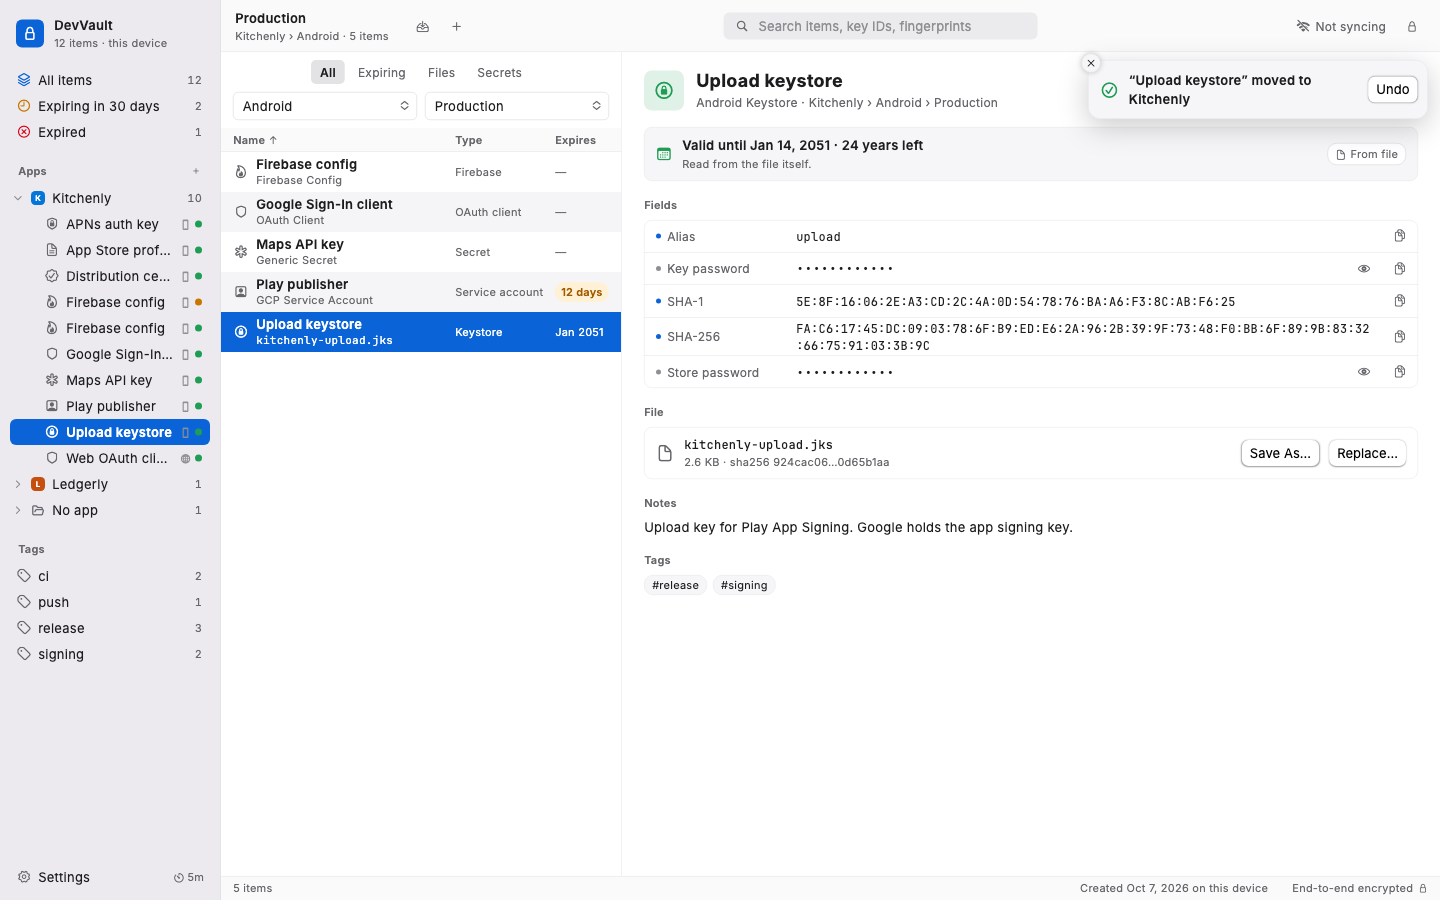
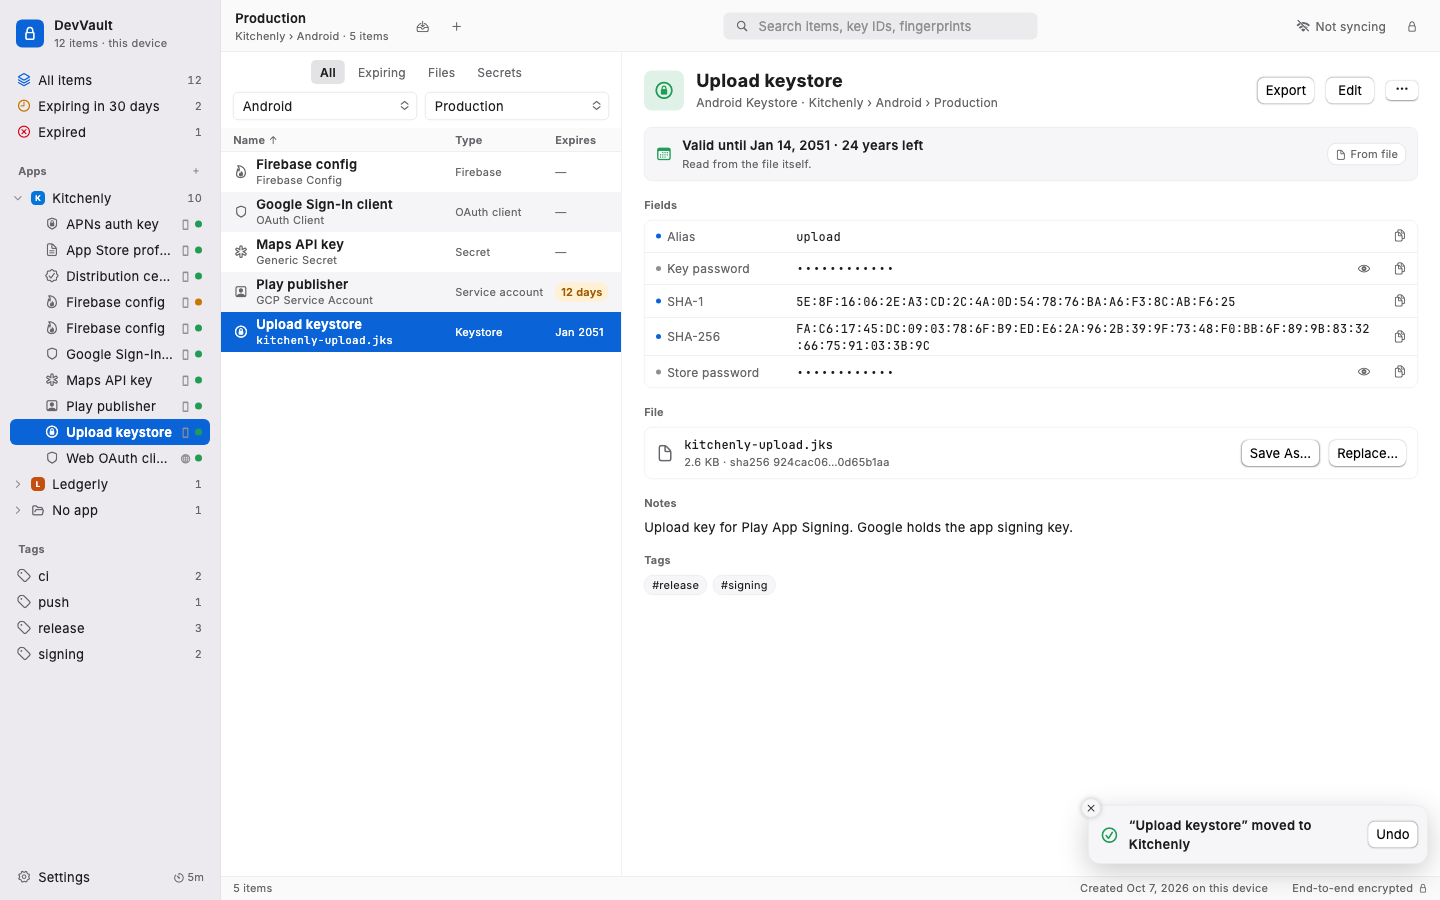
Desktop UI · Toasts at the bottom right, clear of the inspector
WALK-05: the macOS banner sat at the top right under the toolbar, over
the inspector header's Export / Edit / ⋯ after every import. It now sits
at the bottom right, 12 pt above the status bar and from the right edge
(DesktopMetrics.toastInset), and slides in from the right and below. The
Linux snackbar sits the same 12 pt above the status bar; Fluent's
InfoBar already ends at its top edge. The walkthrough now expects Edit
to be clickable right after each import.

Changed region(s): [[0.75, 0.9022, 1.0, 0.9956], [0.75, 0.0622, 1.0, 0.1556]]

diff --git a/test/desktop_toast_test.dart b/test/desktop_toast_test.dart
@@ -1,5 +1,7 @@
 import 'package:devvault/shared/desktop_ui.dart';
+import 'package:fluent_ui/fluent_ui.dart' as fl show InfoBar;
 import 'package:flutter/gestures.dart';
+import 'package:flutter/material.dart' show Material;
 import 'package:flutter_test/flutter_test.dart';
 
 import 'pump_desktop.dart';
@@ -123,5 +125,77 @@ void main() {
     await tester.tap(find.byIcon(DesktopSymbol.close.of(DesktopKit.macos)));
     await tester.pumpAndSettle();
     expect(find.textContaining('moved to Kitchenly'), findsNothing);
+  });
+
+  group('position (WALK-05)', () {
+    const window = Size(1280, 800);
+
+    /// The window's bottom edge less the status bar.
+    const statusBarTop = 800 - DesktopMetrics.statusBarHeight;
+
+    /// Shows a toast in a [window]-sized window and returns its rect.
+    Future<Rect> shown(WidgetTester tester, DesktopKit kit) async {
+      tester.view
+        ..physicalSize = window
+        ..devicePixelRatio = 1;
+      addTearDown(tester.view.reset);
+      await pumpDesktop(tester, kit, trigger(action: () {}));
+      await tester.tap(find.text('Show'));
+      await settle(tester);
+      final toast = kit == DesktopKit.fluent
+          ? find.byType(fl.InfoBar)
+          : find.byWidgetPredicate((w) => w.runtimeType.toString() == '_Toast');
+      return tester.getRect(toast);
+    }
+
+    Future<void> closeAll(WidgetTester tester) async {
+      await tester.pump(const Duration(seconds: 5));
+      await settle(tester);
+    }
+
+    testWidgets('macos: the banner sits at the bottom right, above the '
+        'status bar, clear of the toolbar and the inspector header', (
+      tester,
+    ) async {
+      final rect = await shown(tester, DesktopKit.macos);
+      expect(rect.right, window.width - DesktopMetrics.toastInset);
+      expect(rect.bottom, statusBarTop - DesktopMetrics.toastInset);
+      // The toolbar and the inspector's header row (title, Export, Edit,
+      // ⋯) under it.
+      const header = Rect.fromLTWH(
+        0,
+        0,
+        1280,
+        DesktopMetrics.toolbarHeight + 120,
+      );
+      expect(rect.overlaps(header), isFalse, reason: '$rect');
+      await closeAll(tester);
+    });
+
+    testWidgets('yaru: the snackbar sits at the bottom centre, above the '
+        'status bar', (tester) async {
+      final rect = await shown(tester, DesktopKit.yaru);
+      expect(rect.bottom, statusBarTop - DesktopMetrics.toastInset);
+      final card = tester.getRect(
+        find
+            .ancestor(
+              of: find.textContaining('moved to Kitchenly'),
+              matching: find.byType(Material),
+            )
+            .first,
+      );
+      expect(card.center.dx, closeTo(window.width / 2, 0.5));
+      expect(card.bottom, lessThanOrEqualTo(statusBarTop));
+      await closeAll(tester);
+    });
+
+    testWidgets("fluent: the InfoBar doesn't cover the status bar", (
+      tester,
+    ) async {
+      final rect = await shown(tester, DesktopKit.fluent);
+      expect(rect.bottom, lessThanOrEqualTo(statusBarTop));
+      expect(rect.center.dx, closeTo(window.width / 2, 0.5));
+      await closeAll(tester);
+    });
   });
 }

diff --git a/lib/shared/desktop/desktop_toast.dart b/lib/shared/desktop/desktop_toast.dart
@@ -14,12 +14,15 @@ enum DesktopToastKind { info, success, danger }
 /// Shows a short, passing message ("“Upload keystore” moved to Kitchenly")
 /// the way the OS does, with an optional [actionLabel] such as Undo:
 ///
-/// - macOS: a banner like Notification Center's, at the top right of the
-///   window under the toolbar. It closes after [duration] (zero keeps it),
-///   or with the round × over its corner, which shows on hover; hovering
-///   keeps it open.
-/// - Windows: Fluent's `InfoBar`, at the bottom of the window.
-/// - Linux: a Yaru snackbar, at the bottom of the window.
+/// - macOS: a banner like Notification Center's, at the bottom right of
+///   the window just above the status bar, clear of the toolbar and the
+///   inspector's header buttons. It closes after [duration] (zero keeps
+///   it), or with the round × over its corner, which shows on hover;
+///   hovering keeps it open.
+/// - Windows: Fluent's `InfoBar`, at the bottom centre of the window, where
+///   `displayInfoBar` puts it. Its 24 pt margin, the status bar's height,
+///   ends it at the status bar's top edge, so it doesn't cover it.
+/// - Linux: a Yaru snackbar, at the bottom centre, above the status bar.
 ///
 /// One shows at a time: a new message replaces the one showing (the
 /// `InfoBar`s on Windows stack, as Fluent's do). Never pass a secret: the
@@ -169,17 +172,19 @@ class _ToastState extends State<_Toast> with SingleTickerProviderStateMixin {
         child: macos ? _banner(context) : _snackbar(context),
       ),
     );
+    // Above the status bar: at the bottom right on macOS, where it covers
+    // none of the toolbar's or the inspector header's buttons, and at the
+    // bottom centre on Linux.
     return Positioned(
-      top: macos ? DesktopMetrics.toolbarHeight + 8 - _closeInset : null,
-      right: macos ? 12 : null,
-      bottom: macos ? null : 24,
+      right: macos ? DesktopMetrics.toastInset : null,
+      bottom: DesktopMetrics.statusBarHeight + DesktopMetrics.toastInset,
       left: macos ? null : 0,
       width: macos ? null : MediaQuery.sizeOf(context).width,
       child: FadeTransition(
         opacity: curve,
         child: SlideTransition(
           position: Tween(
-            begin: macos ? const Offset(0.15, 0) : const Offset(0, 0.3),
+            begin: macos ? const Offset(0.15, 0.15) : const Offset(0, 0.3),
             end: Offset.zero,
           ).animate(curve),
           child: macos ? card : Center(child: card),

diff --git a/integration_test/macos_walkthrough_test.dart b/integration_test/macos_walkthrough_test.dart
@@ -914,7 +914,6 @@ class _Walk {
   Future<void> _importAll() async {
     final parsers = CredentialParsers.standard();
     final hiddenExpiry = <String>[];
-    final coveredByToast = <String>[];
     for (final (i, c) in _imports.indexed) {
       final bytes = fixture(c.file);
       final before = index.all.length;
@@ -1024,12 +1023,17 @@ class _Walk {
       if (c.secrets.isNotEmpty) {
         expectNoSecretInToasts(c.secrets.values);
       }
-      // The "File imported" toast sits over the inspector's header.
+      // WALK-05 (fixed): the "File imported" toast sits at the bottom
+      // right, so the inspector's header buttons can be clicked at once.
       final edit = inInspector(find.widgetWithText(DesktopButton, 'Edit'));
-      if (edit.evaluate().isNotEmpty &&
-          edit.hitTestable().evaluate().isEmpty &&
-          toastTexts().isNotEmpty) {
-        coveredByToast.add(c.file);
+      if (edit.evaluate().isNotEmpty) {
+        expect(
+          edit.hitTestable(),
+          findsWidgets,
+          reason:
+              "${c.file}: the inspector's Edit button can be clicked right "
+              'after an import',
+        );
       }
     }
     // KNOWN ISSUE WALK-04 (should fix): at 1280×800 the import sheet's
@@ -1040,14 +1044,6 @@ class _Walk {
       hiddenExpiry.isEmpty,
       'the import sheet shows the expiry line without scrolling '
           '(out of view for: ${hiddenExpiry.join(', ')})',
-    );
-    // KNOWN ISSUE WALK-05 (should fix): the toast after an import covers
-    // the inspector's Export / Edit / ⋯ buttons while it shows.
-    knownIssue(
-      'WALK-05',
-      coveredByToast.isEmpty,
-      'the inspector\'s Edit button can be clicked right after an import '
-          '(covered by the toast after: ${coveredByToast.join(', ')})',
     );
 
     // A file nothing reads is kept as a generic file, with nothing made up.

diff --git a/lib/shared/desktop/desktop_metrics.dart b/lib/shared/desktop/desktop_metrics.dart
@@ -113,6 +113,10 @@ abstract final class DesktopMetrics {
   static const double toastWidth = 340;
   static const double toastMinWidth = 280;
   static const double toastMaxWidth = 520;
+
+  /// How far a toast sits from the window's right edge (the macOS banner)
+  /// and above the status bar (the banner and the Linux snackbar).
+  static const double toastInset = 12;
   static const double panelWidth = 600;
   static const double panelTop = 120;
 

diff --git a/docs/acceptance/macos-walkthrough.md b/docs/acceptance/macos-walkthrough.md
@@ -38,14 +38,15 @@ They aren't committed. The names below are from that folder.
 The test checks each one with `knownIssue(...)`, which logs and lists the
 problem instead of failing. It also reports when a problem no longer
 reproduces. No Flutter errors (overflows, exceptions) were reported during
-the walk.
+the walk. Once a problem is fixed, its check becomes a normal expectation
+and the finding is marked **Fixed**.
 
 | # | Flow | Result | Notes |
 |---|---|---|---|
 | 1 | Create a vault (N01): a short password and a mismatched confirmation are refused; the strength meter shows; Argon2id runs | Pass | |
 | 1b | Recovery kit (N02): Open Vault waits for the checkbox; Save as Text… saves the key and the vault id; the toast has no secret | Pass | |
 | 2 | Vault › Lock (⌘L); a wrong password says "That password didn't open this vault" and clears the field; the right one unlocks | Pass | |
-| 3 | Import every type (D04 / N04), alternating the toolbar's Import and File › Import… (⌘I): `.p8` (Team ID asked), `.p12` (password), `.mobileprovision`, `.jks` (store password), `google-services.json`, `GoogleService-Info.plist`, service account, OAuth client, SSH key, an unknown file (generic), and the same file twice (Open existing) | Pass | Every fact the parser reads is on the sheet. The expiry comes from the file, or the sheet says there's none. Each item lands in the table, selected. WALK-04, WALK-05 |
+| 3 | Import every type (D04 / N04), alternating the toolbar's Import and File › Import… (⌘I): `.p8` (Team ID asked), `.p12` (password), `.mobileprovision`, `.jks` (store password), `google-services.json`, `GoogleService-Info.plist`, service account, OAuth client, SSH key, an unknown file (generic), and the same file twice (Open existing) | Pass | Every fact the parser reads is on the sheet. The expiry comes from the file, or the sheet says there's none. Each item lands in the table, selected. WALK-04, WALK-05 (fixed) |
 | 3b | File › New Item (⌘N): two Generic Secrets with your own expiry (in 10 days, 3 days ago) | Pass | Covers Generic Secret: on desktop, Import has no "Paste a secret" (that's the phone's B4b) |
 | 4 | Inspector: fields, "From file", reveal and hide a secret, the status bar's history, Save As… writes the file back byte for byte | Pass | |
 | 4b | Clipboard guard: Settings › Security › Clear copied secrets after 10 seconds; Copy Value puts it on the real clipboard; the toast says 10 seconds and has no secret; cleared after ~9.5–9.7 s; something copied since is left alone | Pass | |
@@ -121,7 +122,7 @@ have**. None is a blocker.
   scrolls. The facts box (12 rows for a `.p12`) takes the room.
 - **Screenshot:** `10-import-legacy-p12.png` (also `11-…`, `13-…`)
 
-### WALK-05 · The toast covers the inspector's buttons after an import (should fix)
+### WALK-05 · The toast covers the inspector's buttons after an import (should fix, **Fixed**)
 
 - **Steps:** Import any file and look at the inspector right away.
 - **Expected:** Export, Edit and ⋯ can be clicked.
@@ -131,6 +132,11 @@ have**. None is a blocker.
   This happened on 8 of 9 imports.
 - **Screenshot:** `10-import-legacy-p12.png` (the toast over the header
   behind the sheet), `14-import-google-services-json.png`
+- **Fixed:** the macOS banner now sits at the bottom right, 12 pt above
+  the status bar and 12 pt from the right edge, clear of the toolbar and
+  the inspector's header. The Linux snackbar sits above the status bar
+  too, and Fluent's `InfoBar` ends at its top edge. The walk now expects
+  Edit to be clickable right after each import.
 
 ### WALK-06 · New Kit and Rotate show the phone's recovery-key card (should fix)
 

diff --git a/docs/design/desktop.md b/docs/design/desktop.md
@@ -208,14 +208,19 @@ through `package:devvault/shared/desktop_ui.dart`:
   window, like Spotlight (quick open, ⌘K). `DesktopRadio` (the conflict
   sheet's choices) and `DesktopProgress` (a spinner).
 - `showDesktopToast`: a short, passing message with an optional action
-  (Undo). On macOS it's a banner like Notification Center's, at the top
-  right under the toolbar: a status symbol, the title in bold, a push
-  button for the action, and, on hover, a round × over its top-left
-  corner. Hovering keeps it open. On
-  Windows it's Fluent's `InfoBar` at the bottom; on Linux, a Yaru
-  snackbar. One shows at a time. Screens call `showAppToast`, which
-  picks this on desktop and bc_ui's toast on phones. Frames:
-  `N03-toast`, `N03-toast-light`.
+  (Undo). On macOS it's a banner like Notification Center's, at the
+  bottom right just above the status bar (`DesktopMetrics.toastInset`,
+  12 pt, from the right edge and above the status bar), so it never
+  covers the toolbar or the inspector's Export / Edit / ⋯ (WALK-05). It
+  slides in from the right and below: a status symbol, the title in
+  bold, a push button for the action, and, on hover, a round × over its
+  top-left corner. Hovering keeps it open. On Windows it's Fluent's
+  `InfoBar`, bottom centre where `displayInfoBar` puts it (its 24 pt
+  margin ends it at the status bar's top edge); on Linux, a Yaru
+  snackbar, bottom centre, the same 12 pt above the status bar. One
+  shows at a time. Screens call `showAppToast`, which picks this on
+  desktop and bc_ui's toast on phones. Frames: `N03-toast`,
+  `N03-toast-light`.
 - `DesktopPullDownButton`: an icon push button (⋯) that drops a menu of
   commands, destructive ones in red (the inspector's Replace file… and
   Delete item…). `DesktopContextMenu` opens the same kind of menu where
